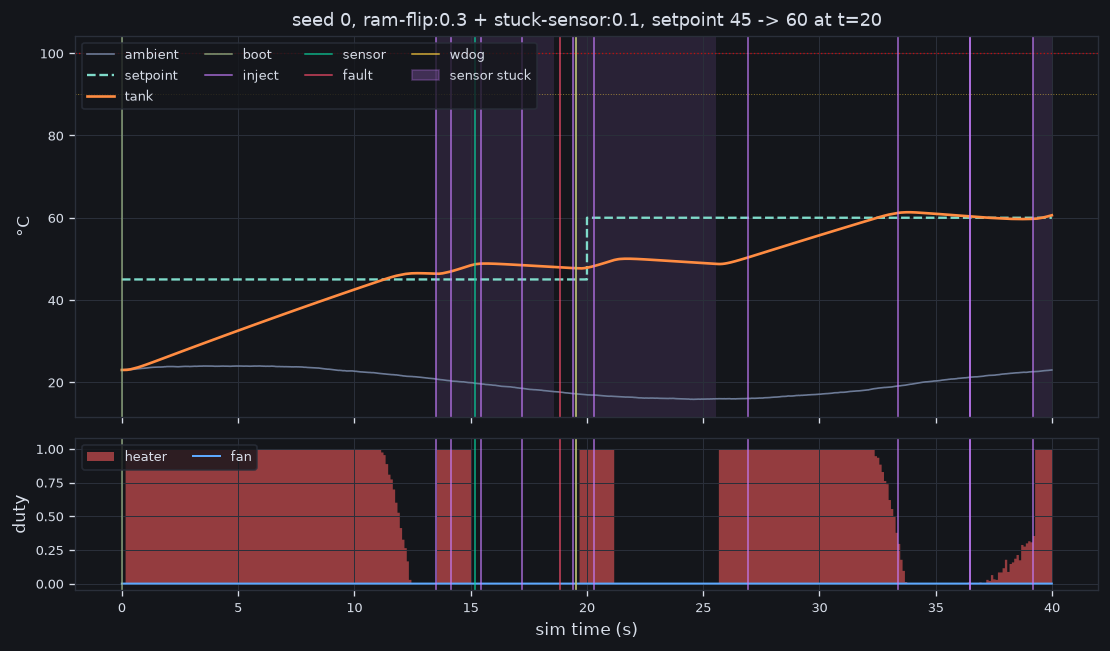
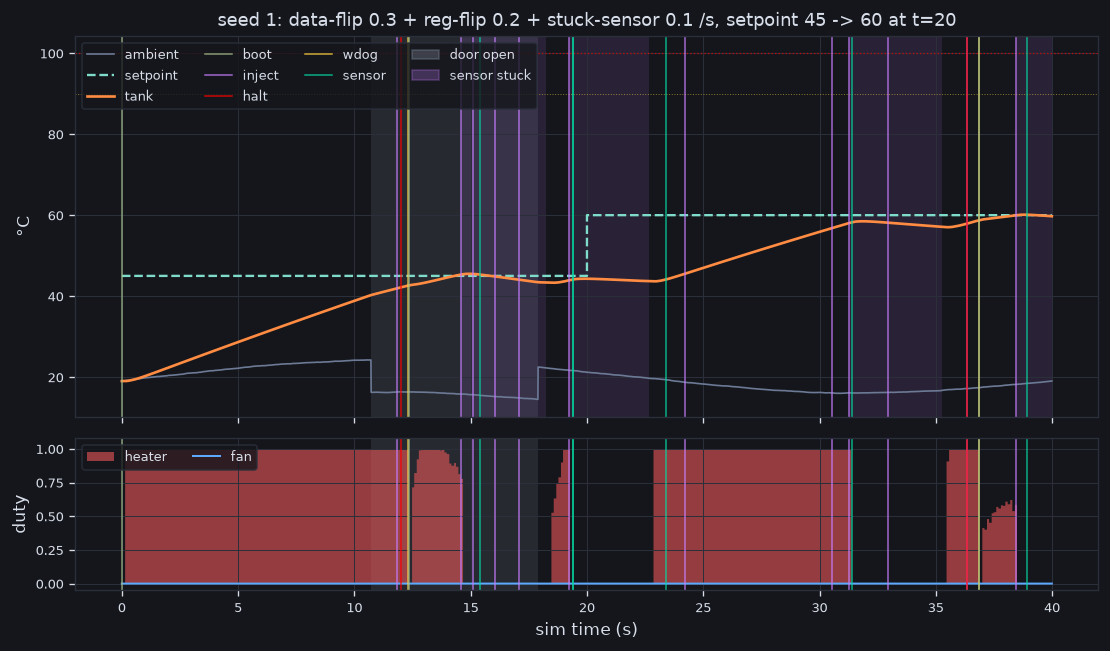
rtosaurus: fault_run example with current fault kinds + hw watchdog recoveries

diff --git a/toys/rtosaurus/README.md b/toys/rtosaurus/README.md
@@ -55,6 +55,12 @@ because a dead microcontroller doesn't stop thermodynamics.
 
 ![fault run](examples/fault_run.png)
 
+One bad day: the door opens, a bit flip halts the CPU at 12 s and the
+watchdog reboots it. The sensor sticks four times and the firmware cuts the
+heater each time. Another halt comes at 36 s, and the tank still ends at 60 °C.
+`uv run python -m rtosaurus run --seed 1 --seconds 40 --inject
+data-flip:0.3,reg-flip:0.2,stuck-sensor:0.1 --at 20:knob=60 --plot run.png`
+
 A campaign runs every (fault kind, rate, seed) for 40 sim seconds with the
 setpoint at 45 °C, starting injections after 10 s. A run **survives** if the
 tank never boils, the CPU is running at the end, and the temperature is within
